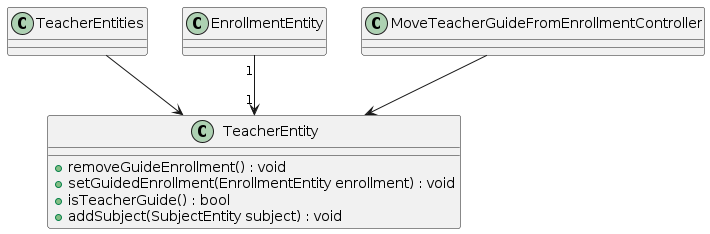
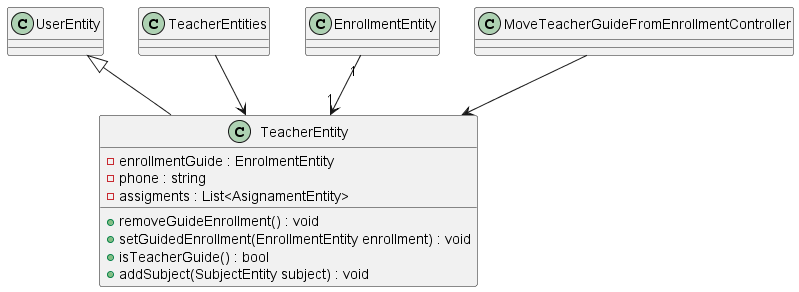
Feat: Add user entity Analysis classes

diff --git a/Review/analysis-view.class.md b/Review/analysis-view.class.md
@@ -25,6 +25,7 @@ Para la elaboración del análisis es necesario conocer los diagramas de colabor
     - [TeacherEntities](#model8)
     - [TeacherEntity](#model9)
     - [GradeEntities](#model10)
+    - [UserEntity](#model11)
 ---
 
 
@@ -84,3 +85,6 @@ Para la elaboración del análisis es necesario conocer los diagramas de colabor
 
 * ### GradeEntities <a id="model10"></a>
 ![](../out/DesignView/AnalysisView/ClassAnalysis/Models/1.Iteration-page10.png)
+
+* ### UserEntity <a id="model11"></a>
+![](../out/DesignView/AnalysisView/ClassAnalysis/Models/1.Iteration-page11.png)
